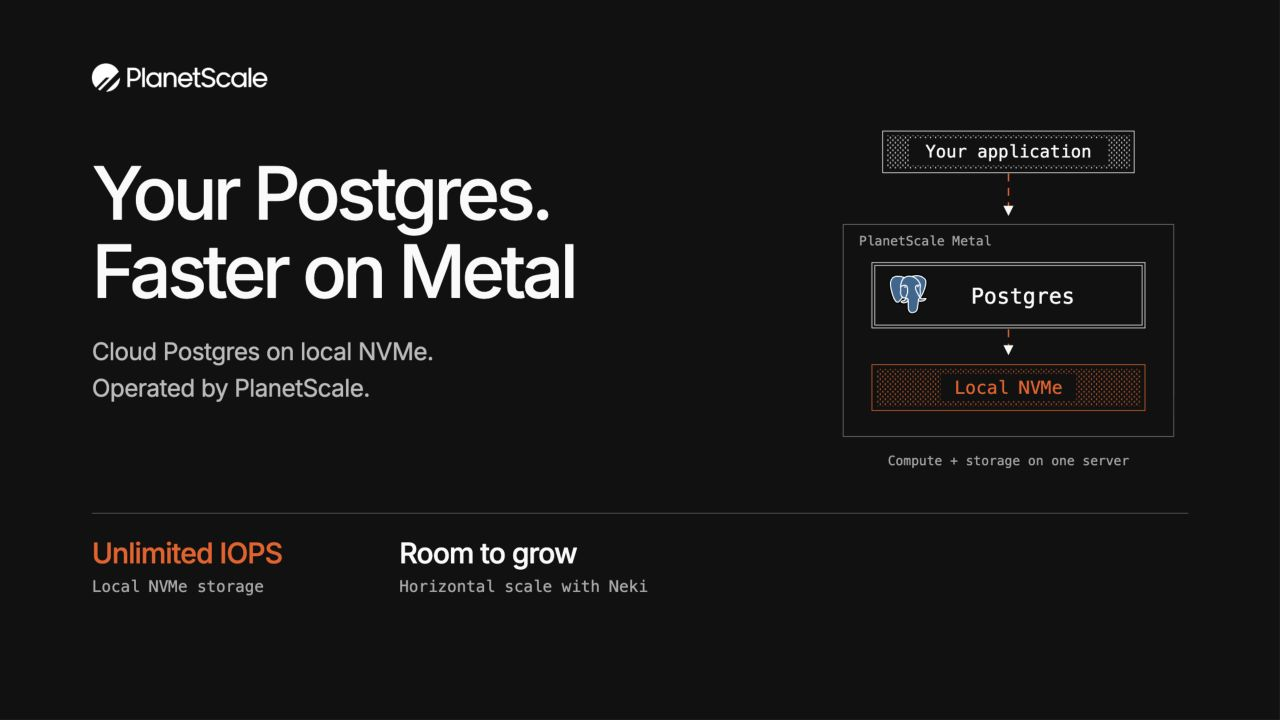
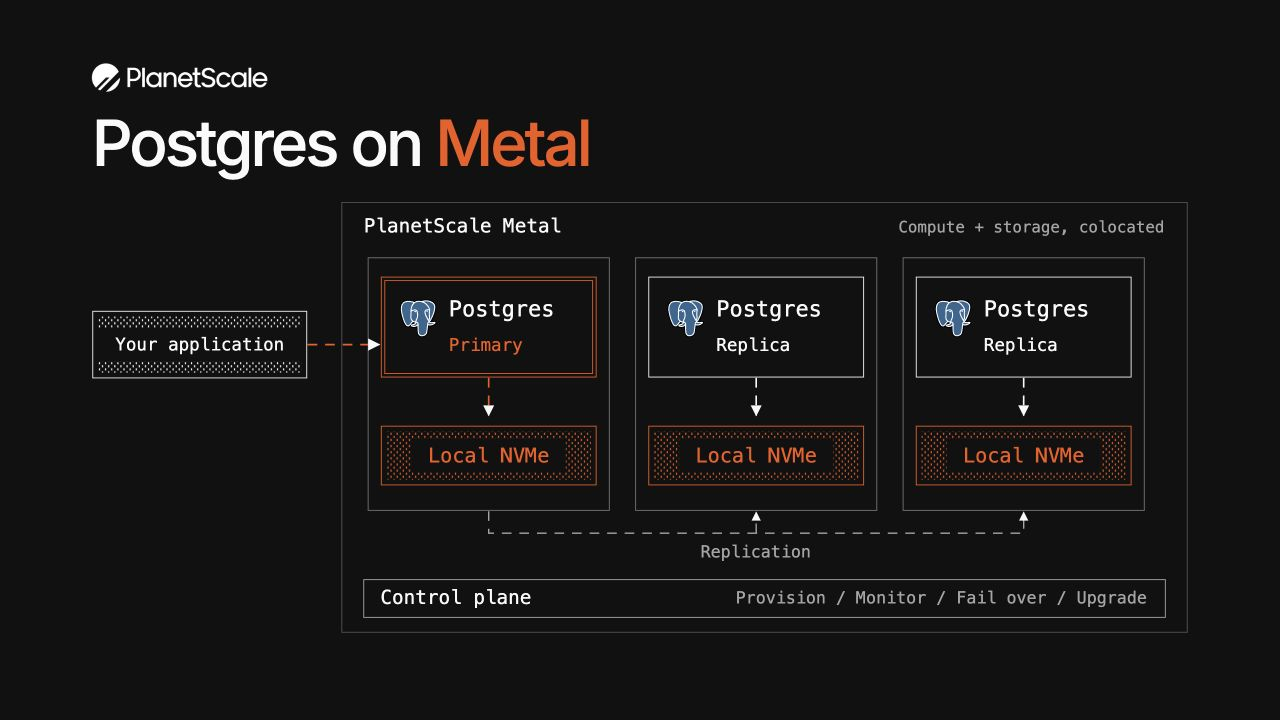
Rebuild opening around Postgres on Metal architecture

diff --git a/theme.css b/theme.css
@@ -17,15 +17,11 @@ body{margin:0;background:var(--ink);color:var(--white);font-family:Inter,Arial,s
 
 /* Brand presence belongs to the opening; content slides start at the headline. */
 .reveal .slides>.opening{padding-top:50px}
-.cover-brand{height:30px;margin-bottom:35px}
+.cover-brand{height:30px;margin-bottom:24px}
 .cover-brand img{display:block;width:210px;height:auto}
-.hero{display:grid;grid-template-columns:800px 1fr;position:relative;height:458px;align-items:start;padding-top:44px}
-.hero .lead{font-size:29px;line-height:1.5;margin-top:28px;color:#bbb;letter-spacing:-.6px}
-.server-art{width:430px;position:absolute;top:16px;right:0}
-.opening-proof{border-top:1px solid #555;display:flex;gap:140px;padding-top:30px;margin-top:15px}
-.opening-proof strong{display:block;font-size:34px;letter-spacing:-1px}
-.opening-proof>div:first-child strong{color:var(--orange)}
-.opening-proof span{display:block;font:19px var(--mono);color:#aaa;margin-top:12px}
+.reveal .opening h1{font-size:76px;line-height:1.1;letter-spacing:-3.5px}
+.opening-architecture{margin-top:28px}
+.opening-architecture svg{width:100%;height:auto}
 
 /* Customer result: the secondary claim lives with its evidence. */
 .customer-story{display:flex;justify-content:space-between;font:20px var(--mono);color:#aaa;margin-top:22px}

diff --git a/build_content.py b/build_content.py
@@ -19,17 +19,26 @@ def db(x,y,w=170,h=94,color=LINE):
 def stipple_box(x,y,w,h,label,mark,color=WHITE,size=24):
     return rect(x,y,w,h,INK,color)+rect(x+6,y+6,w-12,h-12,f'url(#{mark})','none')+rect(x+w/2-len(label)*size*.33-12,y+h/2-19,len(label)*size*.66+24,38,INK,'none')+txt(x+w/2,y+h/2+size*.34,label,size,color,'middle')
 
-# Opening: editable diagram of colocated Postgres compute and local storage.
-b=stipple_box(75,0,350,58,'Your application','metal-hero-dots',WHITE,24)
-b+=path('M250 59V117',ORANGE,2,True,arrow='metal-hero')
-b+=rect(20,130,460,295,INK,'#777777')+txt(42,159,'PlanetScale Metal',18,GRAY)
-b+=db(60,183,380,91,WHITE)
-b+='<image href="assets/postgresql.svg" x="83" y="199" width="55" height="56"/>'
-b+=txt(270,240,'Postgres',30,WHITE,'middle')
-b+=path('M250 276V311',ORANGE,2,True,arrow='metal-hero')
-b+=stipple_box(60,325,380,64,'Local NVMe','metal-hero-accent',ORANGE,25)
-b+=txt(250,465,'Compute + storage on one server',18,GRAY,'middle')
-servers=svg(500,475,b,'The application connects to PlanetScale Metal. Postgres compute and local NVMe storage run on the same server.',mark='metal-hero')
+# Opening: the managed Metal cluster is the hero, with a separate operating plane.
+b=rect(285,1,964,490,INK,'#555555')
+b+=txt(310,35,'PlanetScale Metal',22,WHITE)
+b+=txt(1223,35,'Compute + storage, colocated',18,GRAY,'end')
+b+=stipple_box(1,125,244,76,'Your application','metal-hero-dots',WHITE,20)
+for x,role,color in [(330,'Primary',ORANGE),(635,'Replica',WHITE),(940,'Replica',WHITE)]:
+    b+=rect(x-15,64,275,288,INK,'#777777')
+    b+=(db(x,86,245,114,color) if role=='Primary' else rect(x,86,245,114,INK,color))
+    b+=f'<image href="assets/postgresql.svg" x="{x+21}" y="111" width="42" height="44"/>'
+    b+=txt(x+77,131,'Postgres',25,WHITE)+txt(x+77,170,role,20,color)
+    b+=path(f'M{x+122.5} 201V244',color,1.8,True,arrow='metal-hero')
+    b+=stipple_box(x,256,245,67,'Local NVMe','metal-hero-accent',ORANGE,23)
+b+=path('M246 163H328',ORANGE,2,True,arrow='metal-hero')
+b+=path('M452.5 353V378H1062.5V354',GRAY,1.5,True,arrow='metal-hero')
+b+=path('M757.5 378V354',GRAY,1.5,True,arrow='metal-hero')
+b+=txt(757,406,'Replication',19,GRAY,'middle')
+b+=rect(310,431,914,43,INK,'#aaaaaa')
+b+=txt(329,459,'Control plane',22,WHITE)
+b+=txt(1203,458,'Provision / Monitor / Fail over / Upgrade',19,GRAY,'end')
+servers=svg(1250,494,b,'Your application connects to a Postgres primary on PlanetScale Metal. Each of the three database nodes pairs Postgres compute with local NVMe storage. The primary replicates to two replicas. A separate PlanetScale control plane operates the infrastructure.',mark='metal-hero')
 
 # HA: full-height architecture makes the query paths and control plane the focus.
 b=stipple_box(470,0,310,52,'Application','ha-arrow-dots',WHITE,25)
@@ -134,7 +143,7 @@ b+=txt(60,365,'QUERIES / SECOND',15,'#b9a762',mono=True)+txt(756,365,'LOG SCALES
 scale=svg(820,380,b,'Neki read-only point-select benchmark: 5 shards delivered 999,624 QPS; 50 shards delivered 9,923,900 QPS; 512 shards delivered 118,538,803 QPS. Both axes use logarithmic scales.',mark='scale-arrow',color=YELLOW)
 
 slides=[
- dict(id='opening',label='Your Postgres. Faster on Metal',theme='opening',html=f'''<div class="hero"><div><h1>Your Postgres.<br>Faster on Metal</h1><p class="lead">Cloud Postgres on local NVMe.<br>Operated by PlanetScale.</p></div><div class="server-art">{servers}</div></div><div class="opening-proof"><div><strong>Unlimited IOPS</strong><span>Local NVMe storage</span></div><div><strong>Room to grow</strong><span>Horizontal scale with Neki</span></div></div>''',notes="1:15. “You already run Postgres. We bring the hardware and operating platform to make it faster, keep it available, and give you a path to horizontal scale as your workload grows.” Start with the prospect: a larger instance can add capacity, but someone still owns slow requests, failover, and production changes. Ask: “Which is taking the most engineering attention today?” The primary offer is hosted Postgres on Metal. Explain that local NVMe puts storage alongside compute. Unlimited IOPS is PlanetScale's product wording: there is no separately provisioned IOPS tier, but physical drives and CPUs still have finite limits. Don't imply infinite throughput. Transition: “Vitalize is one example of a Postgres team that made this move.” Sources: https://planetscale.com/metal and https://planetscale.com/blog/benchmarking-postgres."),
+ dict(id='opening',label='PlanetScale Postgres on Metal',theme='opening',html=f'''<h1>Postgres on <span class="accent">Metal</span></h1><div class="opening-architecture">{servers}</div>''',notes="1:15. “You already run Postgres. We bring the hardware and the operating platform.” Trace the application into the primary, then down to local NVMe. “Compute and storage run together on each machine. We replicate across nodes, and our control plane operates the cluster.” This is a simplified view of an HA Metal cluster; the availability slide adds zones, endpoints, and replication detail. The control plane is separate from the application query path. Connect the architecture to the buyer: faster requests, less infrastructure work, and a path to horizontal scale when needed. Ask: “Which is taking the most engineering attention today: performance, availability, or operating the database?” Keep detailed failover and sizing discussion for later. The immediate offer is hosted Postgres on Metal. Unlimited IOPS is PlanetScale's product wording, not infinite physical throughput. Transition: “Vitalize is one Postgres team that made this move.” Sources: https://planetscale.com/metal and https://planetscale.com/blog/benchmarking-postgres."),
  dict(id='vitalize',label='Vitalize: 2 ms p95, half the vCPUs',theme='vitalize',html=f'''<h2>Vitalize: <span class="accent">2 ms p95</span></h2><div class="customer-story"><span>Hospital staffing software</span><span>400 GB / 150 million rows</span></div><div class="customer-move"><span>Supabase</span><span class="move-line"></span><strong>PlanetScale Metal</strong></div><div class="vitalize-charts"><div>{vitalize_latency}</div><div>{vitalize_compute}</div></div>''',notes='1:45. “Vitalize runs hospital staffing software. They moved a 400 GB Postgres database with 150 million rows from Supabase to PlanetScale Metal. They report about 2 ms p95 on half the vCPUs, with the same 16 GB of RAM.” Tell the customer story before explaining the graphs: demanding database reads, the move, then the result. The latency plot is their actual PlanetScale Query Insights capture after migration, not a paired before/after percentile. No comparable Supabase p95 is published. The 200 GB JSONB-heavy table comparison separately reports 50-second average reads before and 1.2-second maximum reads after; do not calculate a speedup from unlike statistics. The cutover included taking the app offline. These are customer-reported outcomes, not a guarantee. Transition: “Here is the platform operating that database.” Source: https://vitalize.care/blog/from-supabase-to-planetscale . Other cases and suitable alternatives: docs/customer-case-studies.md.'),
  dict(id='availability',label='Your Postgres. Operated by PlanetScale',theme='availability',html=f'''<div class="title-with-stat"><h2>Postgres across three zones</h2><div class="sla"><strong>99.99<span>%</span></strong><p>single-region HA SLA</p></div></div><div class="ha-diagram">{ha}</div>''',notes="2:00. “We operate a primary and two replicas across three availability zones. Your application has a primary endpoint and a replica endpoint; our control plane manages health and production changes.” Trace application traffic first, replication second, management last. Use replicas for reads that tolerate replication lag. Semi-synchronous streaming replication acknowledges from at least one replica. The control plane is outside the SQL query path and handles provisioning, failover, resizing, and upgrades. Backups and point-in-time recovery complement HA. Automatic failover can interrupt connections, so applications need retries. The diagram is a simplified HA topology. 99.99% is the single-region HA SLA under the applicable agreement, not a guarantee of no interruption. It excludes single-node and beta offerings. Hosted infrastructure is the main offer; if data location requires it, assess single-tenancy or PlanetScale Managed in the customer's own AWS/GCP account. Transition: “Local NVMe is the hardware foundation. Let's look at its performance under load.” Sources: https://planetscale.com/blog/benchmarking-postgres ; https://planetscale.com/legal/planetscale-service-level-agreement ; https://planetscale.com/docs/plans/managed ."),
  dict(id='metal',label='Postgres on Metal: throughput and p99',theme='metal',html=f'''<div class="metal-heading"><h2>More throughput. Lower p99</h2><p class="metal-line">Postgres on Metal</p></div><div class="benchmark-grid"><div><h3>Throughput <span>mean queries / second</span></h3>{bars}</div><div><h3>p99 latency <span>milliseconds / 1-second intervals</span></h3><div class="chart-legend"><span class="ps-dot">PlanetScale</span><span class="aurora-dot">Aurora</span></div>{latency}</div></div><p class="workload">TPCC-like / 500 GB / 32 connections / 5-minute run</p>''',notes="1:45. “In this mixed read/write benchmark, Postgres on Metal delivers more throughput and lower p99 than these tested configurations. We can evaluate the same questions against your application.” Left: arithmetic mean QPS across 300 one-second samples with 32 concurrent connections: PlanetScale 16,338.6276; Aurora 10,908.9315; AlloyDB 10,355.0109; Supabase 5,270.2068. Right: one-second interval p99 samples from the same TPCC-like benchmark, not an aggregate run-wide percentile. PlanetScale ranges 170.48–223.34 ms; Aurora 325.98–733 ms. Higher QPS and lower p99 are distinct findings. PlanetScale M-320 has 4 vCPU, 32 GB RAM, and 937 GB local NVMe; Aurora and AlloyDB use 4 vCPU/32 GB; Supabase uses 8 vCPU/32 GB and 12k IOPS. Clients run in each provider's cloud region; AlloyDB uses GCP, the others AWS. Work is sent to the primary, not summed across replicas. These are vendor-run synthetic results with different hardware and infrastructure, not isolated proof that NVMe causes every difference. The site's rounded ~18k headline spans other runs; this deck deliberately uses a single concurrency and exact samples. A separate read-only test has roughly equal average throughput for Aurora and PlanetScale, so do not claim every workload is faster by this ratio. Ask: “Which workload would we need to reproduce for this to matter to you?” Validate p95/p99, throughput, errors, and resource use in discovery. Transition: “When one machine becomes the constraint, Neki extends the architecture across Postgres shards.” Sources: https://planetscale.com/benchmarks ; https://planetscale.com/benchmarks/aurora ; https://planetscale.com/benchmarks/alloydb ; https://planetscale.com/benchmarks/supabase . Data definitions: docs/postgres-metal-benchmarks.md."),

diff --git a/README.md b/README.md
@@ -59,4 +59,4 @@ Review all seven slides, then commit the source and updated portable HTML togeth
 
 ## Slide layout conventions
 
-The PlanetScale logo appears only on the opening slide. Content slides start directly with a single-line heading. Keep secondary results with their charts (for example, “Half the vCPUs” above the Vitalize compute chart), and give diagrams their full available width. Neki branding stays in its title row. Avoid restoring a repeated logo spacer or decorative banner.
+The PlanetScale logo appears only on the opening slide. Its single-line “Postgres on Metal” heading sits above a large application → Metal cluster diagram, with local NVMe on each node and a separate control plane. Content slides start directly with a single-line heading. Keep secondary results with their charts (for example, “Half the vCPUs” above the Vitalize compute chart), and give diagrams their full available width. Neki branding stays in its title row. Avoid restoring a repeated logo spacer or decorative banner.

diff --git a/docs/pitch-blueprint.md b/docs/pitch-blueprint.md
@@ -165,3 +165,8 @@ The proposed session should establish compatibility questions, a target deployme
 7. Rebuild notes with the timing and transitions above. Preserve existing slide IDs so direct browser links remain useful.
 
 No new company overview, agenda, ROI calculator, logo wall, or thank-you slide is needed. The seven-slide constraint is met without combining migration and Neki into the same closing slide.
+
+
+## Opening revision — architecture first
+
+The opening now reads “Postgres on Metal” beneath the PlanetScale lockup. The main visual shows an application connecting to a primary, two replicas, local NVMe on each machine, and a separate control plane. Removed the generic benefit blocks and supporting paragraph. This is the platform introduction; slide 3 supplies the availability-zone and endpoint detail. Keep the opening to 75 seconds and move to the Vitalize customer result.
